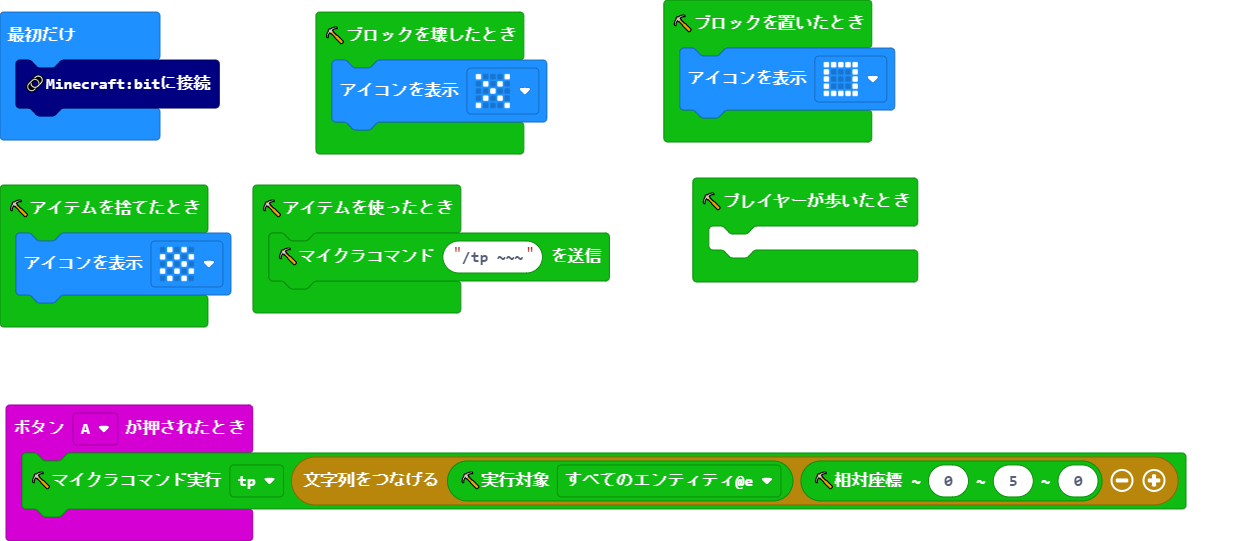
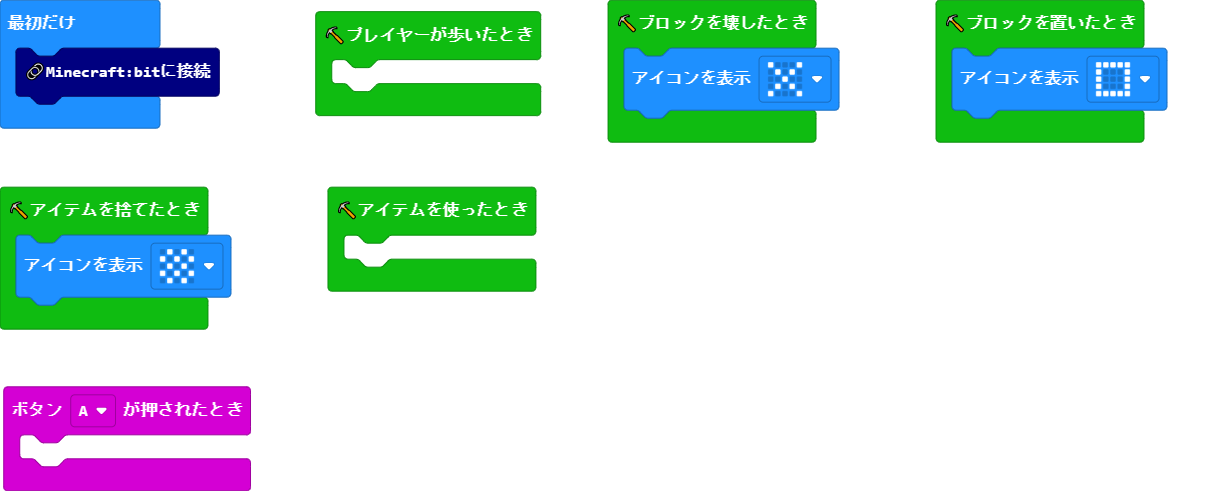
更新 main.blocks, main.ts, custom.ts

diff --git a/custom.ts b/custom.ts
@@ -197,6 +197,47 @@ namespace Minecraftbit {
     }
 
     /**
+     * Run Minecraft Command.
+     * @param ChoiceCommand options
+     */
+    //% blockId=mccommandText block="⛏マイクラコマンド文字列 %ChoiceCommand | %options"
+    //% weight=80
+    export function mccommandText(choice: ChoiceCommand, options: string): string {
+        let commandName
+        switch (choice) {
+            case ChoiceCommand.tp:
+                commandName = "tp"
+                break
+            case ChoiceCommand.give:
+                commandName = "give"
+                break
+            case ChoiceCommand.execute:
+                commandName = "execute"
+                break
+            case ChoiceCommand.summon:
+                commandName = "summon"
+                break
+            case ChoiceCommand.effect:
+                commandName = "effect"
+                break
+            case ChoiceCommand.fill:
+                commandName = "fill"
+                break
+            case ChoiceCommand.playsound:
+                commandName = "playsound"
+                break
+            case ChoiceCommand.weather:
+                commandName = "weather"
+                break
+            case ChoiceCommand.time:
+                commandName = "time"
+                break
+        }
+        let command = "/" + commandName + " " + options
+        return command
+    }
+
+    /**
      * Generate Relative coordinates
      * @param ChoiceCommand options
      */

diff --git a/main.ts b/main.ts
@@ -8,12 +8,12 @@ Minecraftbit.onBlockBroken(function () {
     basic.showIcon(IconNames.No)
 })
 input.onButtonPressed(Button.A, function () {
-    Minecraftbit.Run_mccommand(ChoiceCommand.tp, "" + Minecraftbit.setTarget(Target.e) + Minecraftbit.setRXYZ(0, 5, 0))
+	
 })
 Minecraftbit.onTravelled(function () {
 	
 })
 Minecraftbit.onItemUsed(function () {
-    Minecraftbit.sendMCCommand("/tp ~~~")
+	
 })
 Minecraftbit.connect()
